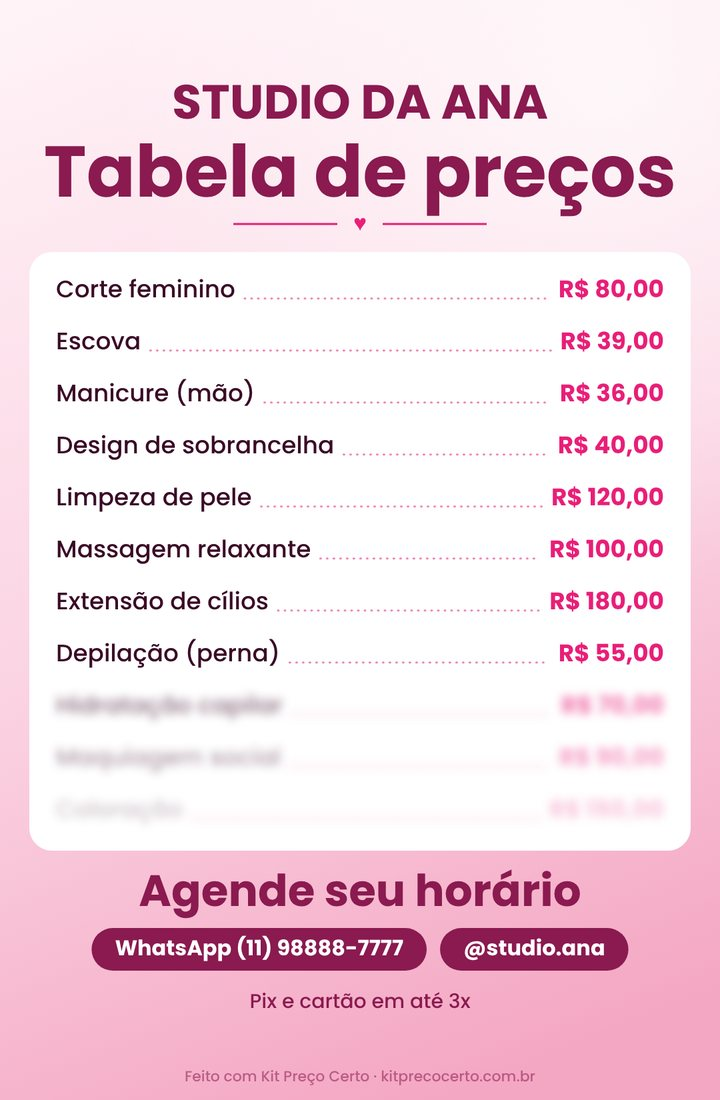
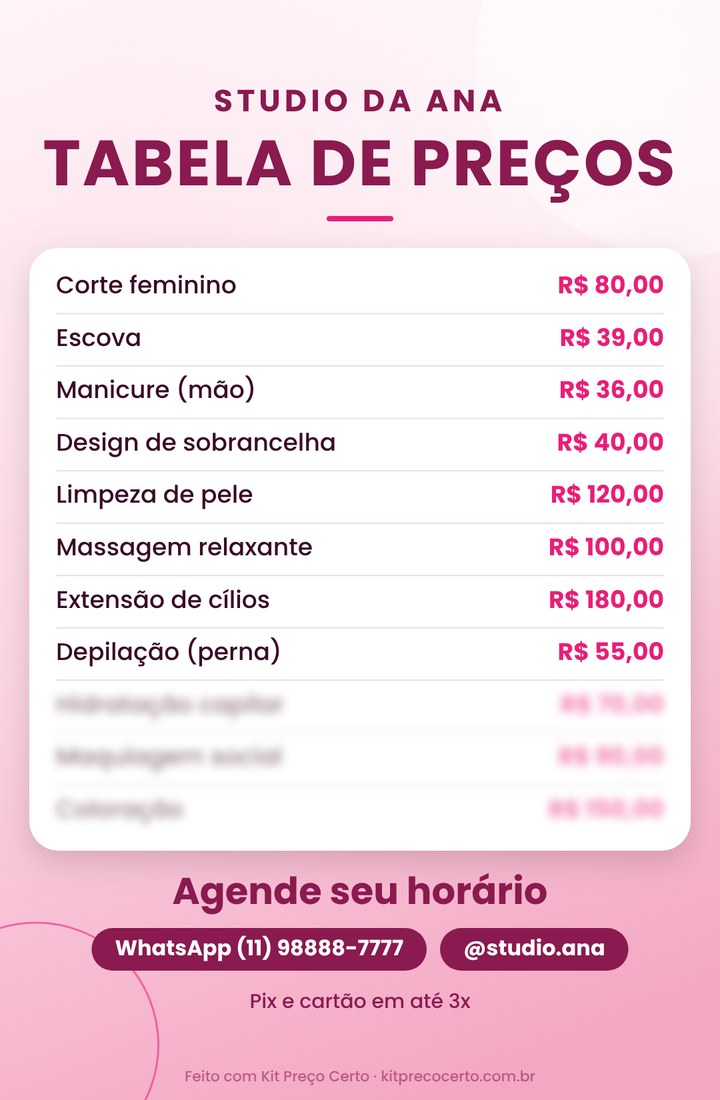
Imagens de exemplo regeneradas nos novos estilos modernos
Claude-Session: https://claude.ai/code/session_01VVXSWQenri3WwETC67snQx

diff --git a/index.html b/index.html
@@ -68,7 +68,7 @@
   </div>
   <div class="hero-row">
     <figure class="hero-tab" id="tp" aria-label="Exemplos da imagem da tabela de preços que a calculadora gera (valores de exemplo)">
-      <div class="tp-stage"><img src="tab-rosa.jpg" width="720" height="1100" alt="Tabela de preços no estilo Rosa, com serviços e valores de exemplo" class="on"><img src="tab-vinho.jpg" width="720" height="1100" alt="Tabela de preços no estilo Vinho e dourado, com serviços e valores de exemplo" class="" loading="lazy"><img src="tab-preto.jpg" width="720" height="1100" alt="Tabela de preços no estilo Preto e dourado, com serviços e valores de exemplo" class="" loading="lazy"><img src="tab-lilas.jpg" width="720" height="1100" alt="Tabela de preços no estilo Lilás, com serviços e valores de exemplo" class="" loading="lazy"><img src="tab-verde.jpg" width="720" height="1100" alt="Tabela de preços no estilo Verde sálvia, com serviços e valores de exemplo" class="" loading="lazy"><img src="tab-nude.jpg" width="720" height="1100" alt="Tabela de preços no estilo Nude, com serviços e valores de exemplo" class="" loading="lazy"></div>
+      <div class="tp-stage"><img src="tab-rosa.jpg?v=2" width="720" height="1100" alt="Tabela de preços no estilo Rosa, com serviços e valores de exemplo" class="on"><img src="tab-vinho.jpg?v=2" width="720" height="1100" alt="Tabela de preços no estilo Vinho e dourado, com serviços e valores de exemplo" class="" loading="lazy"><img src="tab-preto.jpg?v=2" width="720" height="1100" alt="Tabela de preços no estilo Preto e dourado, com serviços e valores de exemplo" class="" loading="lazy"><img src="tab-lilas.jpg?v=2" width="720" height="1100" alt="Tabela de preços no estilo Lilás, com serviços e valores de exemplo" class="" loading="lazy"><img src="tab-verde.jpg?v=2" width="720" height="1100" alt="Tabela de preços no estilo Verde sálvia, com serviços e valores de exemplo" class="" loading="lazy"><img src="tab-nude.jpg?v=2" width="720" height="1100" alt="Tabela de preços no estilo Nude, com serviços e valores de exemplo" class="" loading="lazy"></div>
       <div class="tp-dots" role="radiogroup" aria-label="Escolha o estilo da tabela"><span class="tp-d on" role="radio" tabindex="0" aria-checked="true" aria-label="Estilo Rosa" data-i="0" style="background:linear-gradient(135deg,#FBD3E2,#E91E78)"></span><span class="tp-d" role="radio" tabindex="0" aria-checked="false" aria-label="Estilo Vinho e dourado" data-i="1" style="background:linear-gradient(135deg,#8a1a50,#f6d27a)"></span><span class="tp-d" role="radio" tabindex="0" aria-checked="false" aria-label="Estilo Preto e dourado" data-i="2" style="background:linear-gradient(135deg,#211a1f,#e7c27d)"></span><span class="tp-d" role="radio" tabindex="0" aria-checked="false" aria-label="Estilo Lilás" data-i="3" style="background:linear-gradient(135deg,#E5CBF2,#8e44ad)"></span><span class="tp-d" role="radio" tabindex="0" aria-checked="false" aria-label="Estilo Verde sálvia" data-i="4" style="background:linear-gradient(135deg,#D8E7D4,#4f8a5b)"></span><span class="tp-d" role="radio" tabindex="0" aria-checked="false" aria-label="Estilo Nude" data-i="5" style="background:linear-gradient(135deg,#F1DEC8,#b0693f)"></span></div>
       <p class="tp-name" id="tpn">Estilo: Rosa</p>
       <figcaption>Você escolhe entre 6 estilos de cor. Valores de exemplo.</figcaption>
@@ -94,7 +94,7 @@
       <div class="duo-ic"><svg viewBox="0 0 24 24" fill="none" stroke="currentColor" stroke-width="1.8" stroke-linecap="round" stroke-linejoin="round"><rect x="7" y="2.5" width="10" height="19" rx="2.5"/><path d="M11 18.5h2"/></svg></div>
       <h3>Calculadora no celular</h3>
       <p>Descubra o preço certo de cada serviço e transforme em uma tabela bonita, pronta para divulgar.</p>
-      <div class="duo-thumbs" aria-hidden="true"><img src="tab-rosa.jpg" width="720" height="1100" alt="" loading="lazy"><img src="tab-vinho.jpg" width="720" height="1100" alt="" loading="lazy"><img src="tab-nude.jpg" width="720" height="1100" alt="" loading="lazy"><span>6 estilos de cor</span></div>
+      <div class="duo-thumbs" aria-hidden="true"><img src="tab-rosa.jpg?v=2" width="720" height="1100" alt="" loading="lazy"><img src="tab-vinho.jpg?v=2" width="720" height="1100" alt="" loading="lazy"><img src="tab-nude.jpg?v=2" width="720" height="1100" alt="" loading="lazy"><span>6 estilos de cor</span></div>
       <ul>
         <li>Calcula o preço de cada serviço, com lucro</li>
         <li>Você escolhe a cor e coloca o seu nome, Instagram e WhatsApp</li>

diff --git a/obrigado.html b/obrigado.html
@@ -18,12 +18,12 @@
 <p class="ob-k">Seu celular é a ferramenta principal</p>
 <h2 class="ob-h">Escolha o estilo da sua tabela de preços</h2>
 <div class="ob-strip" aria-label="6 estilos de tabela de preços (valores de exemplo)">
-<figure><img src="tab-rosa.jpg" width="720" height="1100" alt="Estilo Rosa" loading="lazy"><figcaption>Rosa</figcaption></figure>
-<figure><img src="tab-vinho.jpg" width="720" height="1100" alt="Estilo Vinho e dourado" loading="lazy"><figcaption>Vinho</figcaption></figure>
-<figure><img src="tab-preto.jpg" width="720" height="1100" alt="Estilo Preto e dourado" loading="lazy"><figcaption>Preto</figcaption></figure>
-<figure><img src="tab-lilas.jpg" width="720" height="1100" alt="Estilo Lilás" loading="lazy"><figcaption>Lilás</figcaption></figure>
-<figure><img src="tab-verde.jpg" width="720" height="1100" alt="Estilo Verde sálvia" loading="lazy"><figcaption>Verde</figcaption></figure>
-<figure><img src="tab-nude.jpg" width="720" height="1100" alt="Estilo Nude" loading="lazy"><figcaption>Nude</figcaption></figure>
+<figure><img src="tab-rosa.jpg?v=2" width="720" height="1100" alt="Estilo Rosa" loading="lazy"><figcaption>Rosa</figcaption></figure>
+<figure><img src="tab-vinho.jpg?v=2" width="720" height="1100" alt="Estilo Vinho e dourado" loading="lazy"><figcaption>Vinho</figcaption></figure>
+<figure><img src="tab-preto.jpg?v=2" width="720" height="1100" alt="Estilo Preto e dourado" loading="lazy"><figcaption>Preto</figcaption></figure>
+<figure><img src="tab-lilas.jpg?v=2" width="720" height="1100" alt="Estilo Lilás" loading="lazy"><figcaption>Lilás</figcaption></figure>
+<figure><img src="tab-verde.jpg?v=2" width="720" height="1100" alt="Estilo Verde sálvia" loading="lazy"><figcaption>Verde</figcaption></figure>
+<figure><img src="tab-nude.jpg?v=2" width="720" height="1100" alt="Estilo Nude" loading="lazy"><figcaption>Nude</figcaption></figure>
 </div>
 <p class="ob-hint">Deslize para ver os 6 estilos →</p>
 <a class="btn" id="gs" href="calculadora.html" target="_blank" rel="noopener">Criar a minha tabela agora</a>
